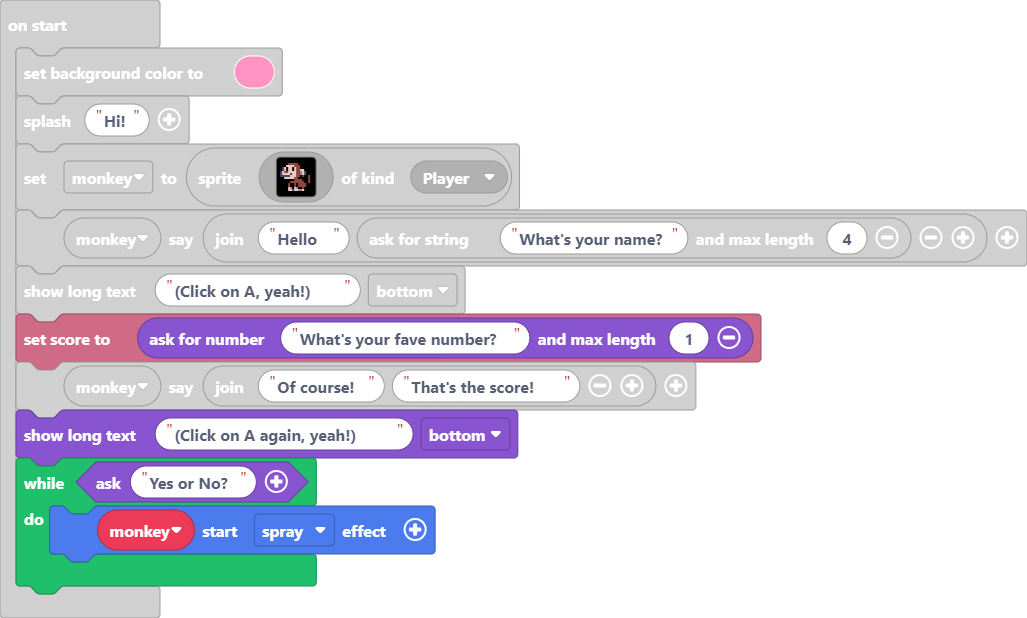
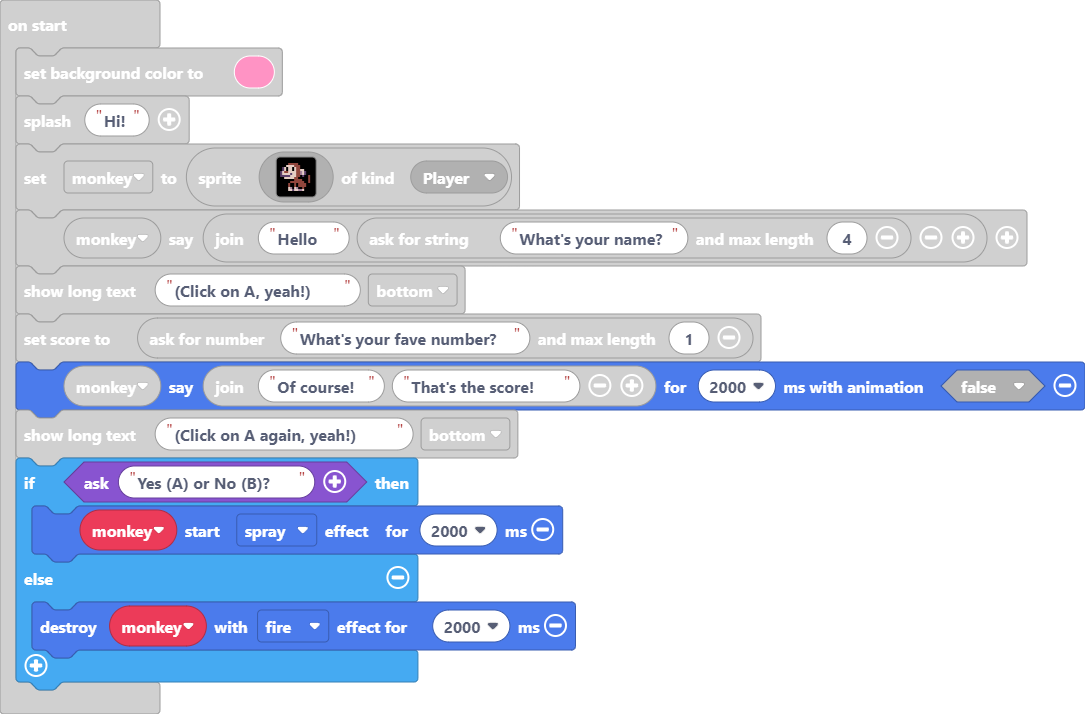
So much fun tinkering with prompts!

diff --git a/main.ts b/main.ts
@@ -21,8 +21,10 @@ let monkey = sprites.create(img`
 monkey.sayText("Hello " + game.askForString("What's your name?", 4))
 game.showLongText("(Click on A, yeah!)", DialogLayout.Bottom)
 info.setScore(game.askForNumber("What's your fave number?", 1))
-monkey.sayText("Of course!" + "That's the score!")
+monkey.sayText("Of course!" + "That's the score!", 2000, false)
 game.showLongText("(Click on A again, yeah!)", DialogLayout.Bottom)
-while (game.ask("Yes or No?")) {
-    monkey.startEffect(effects.spray)
+if (game.ask("Yes (A) or No (B)?")) {
+    monkey.startEffect(effects.spray, 2000)
+} else {
+    monkey.destroy(effects.fire, 2000)
 }
